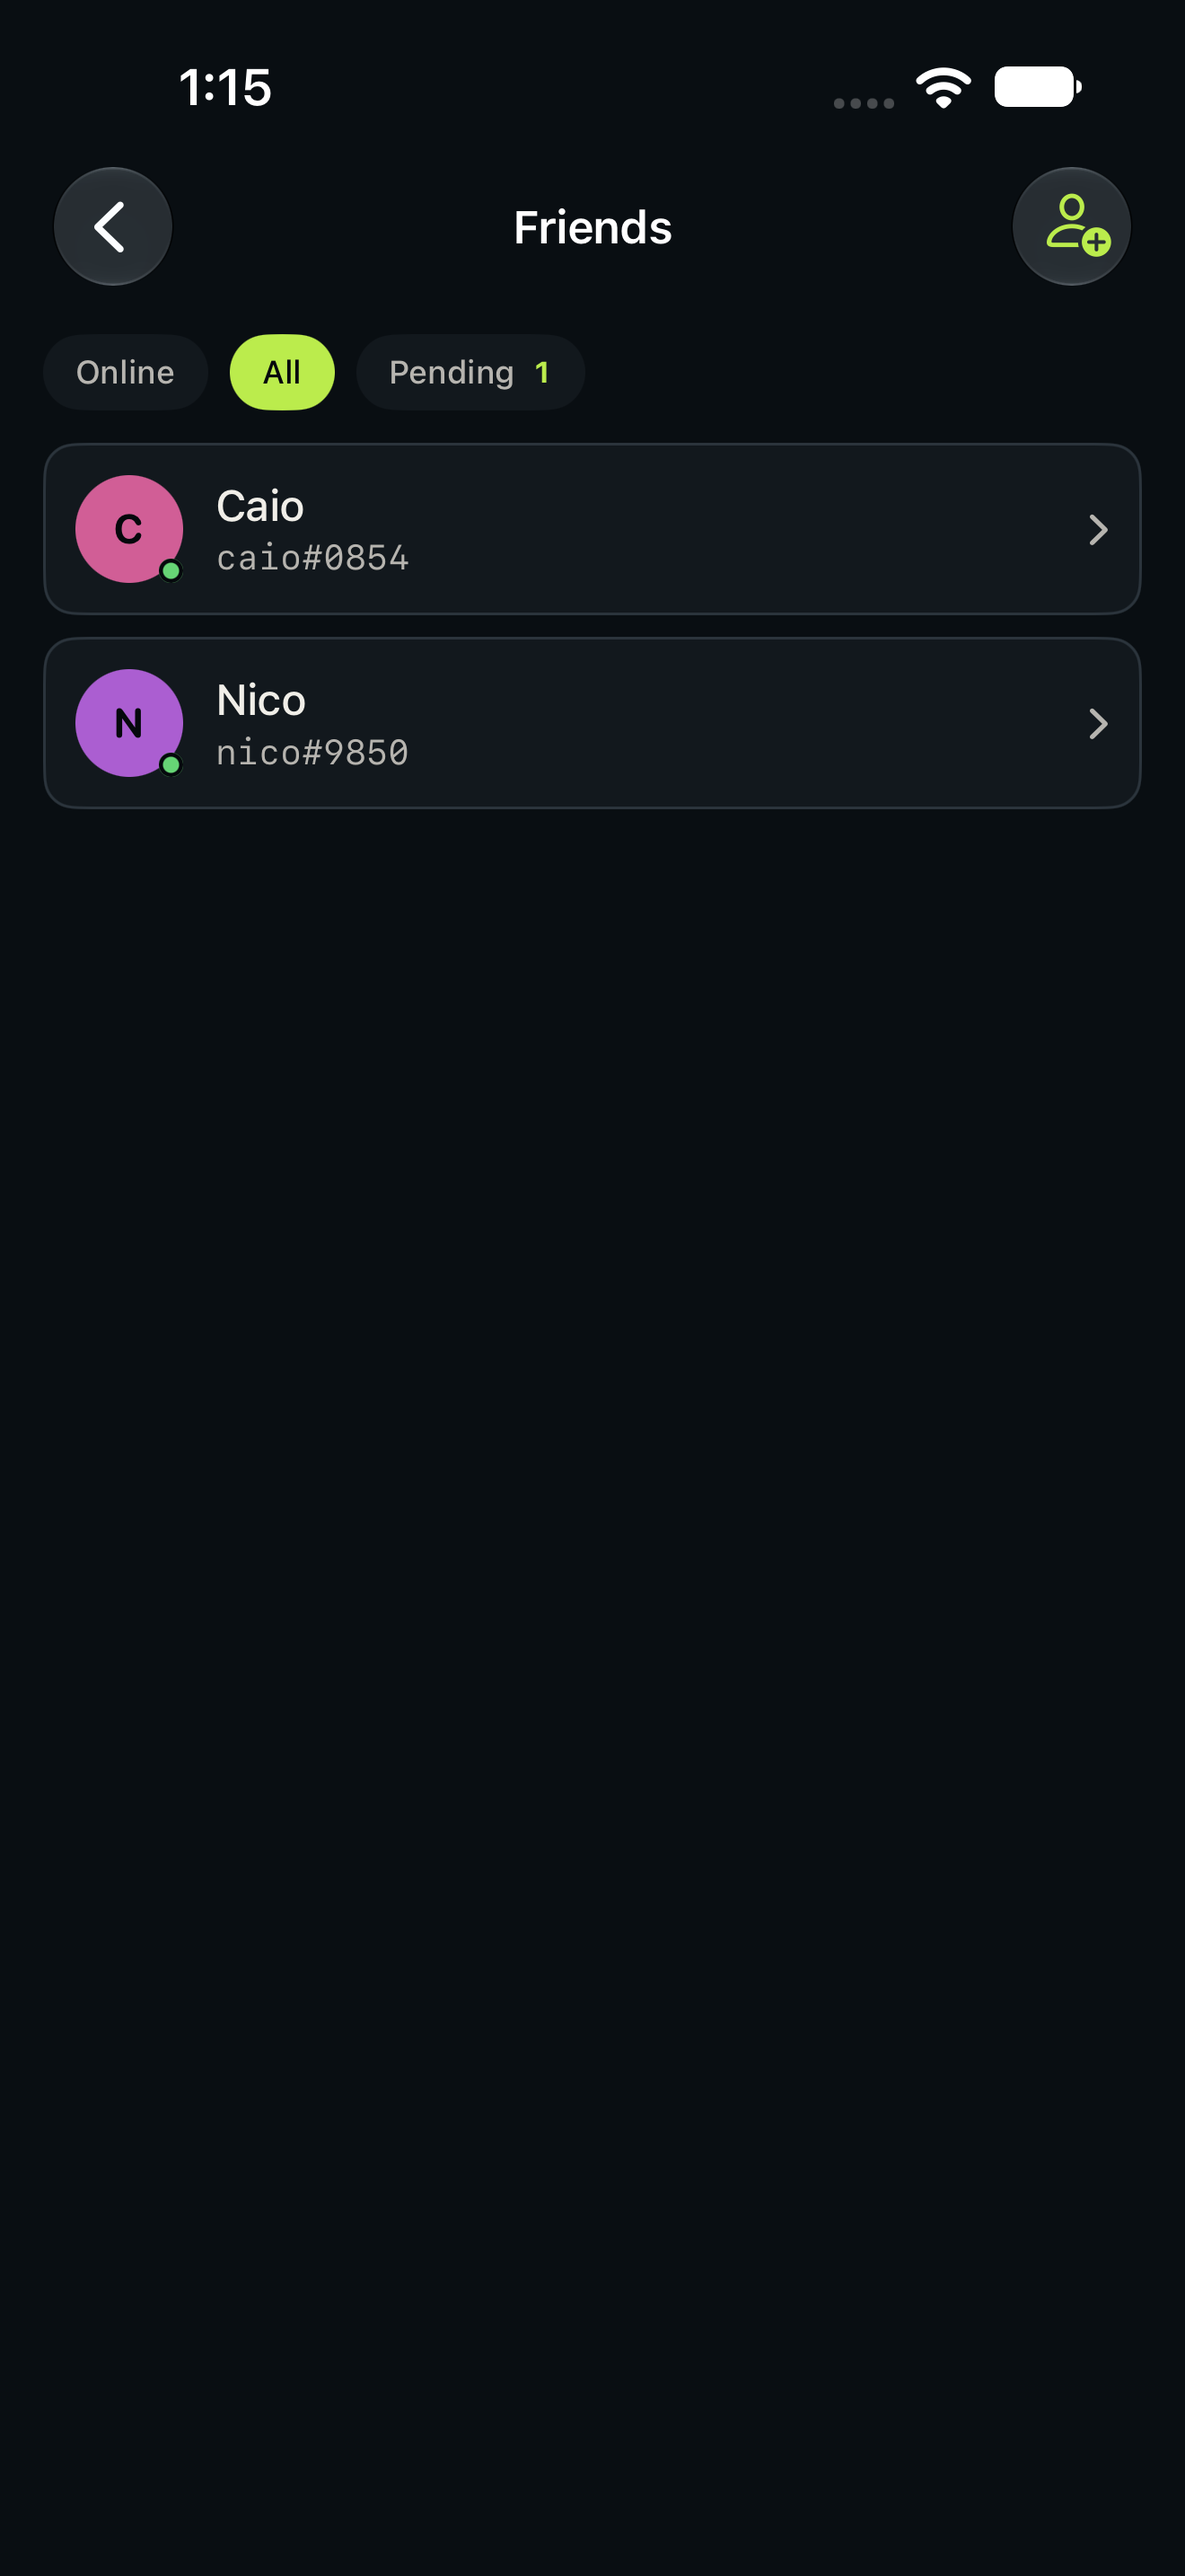
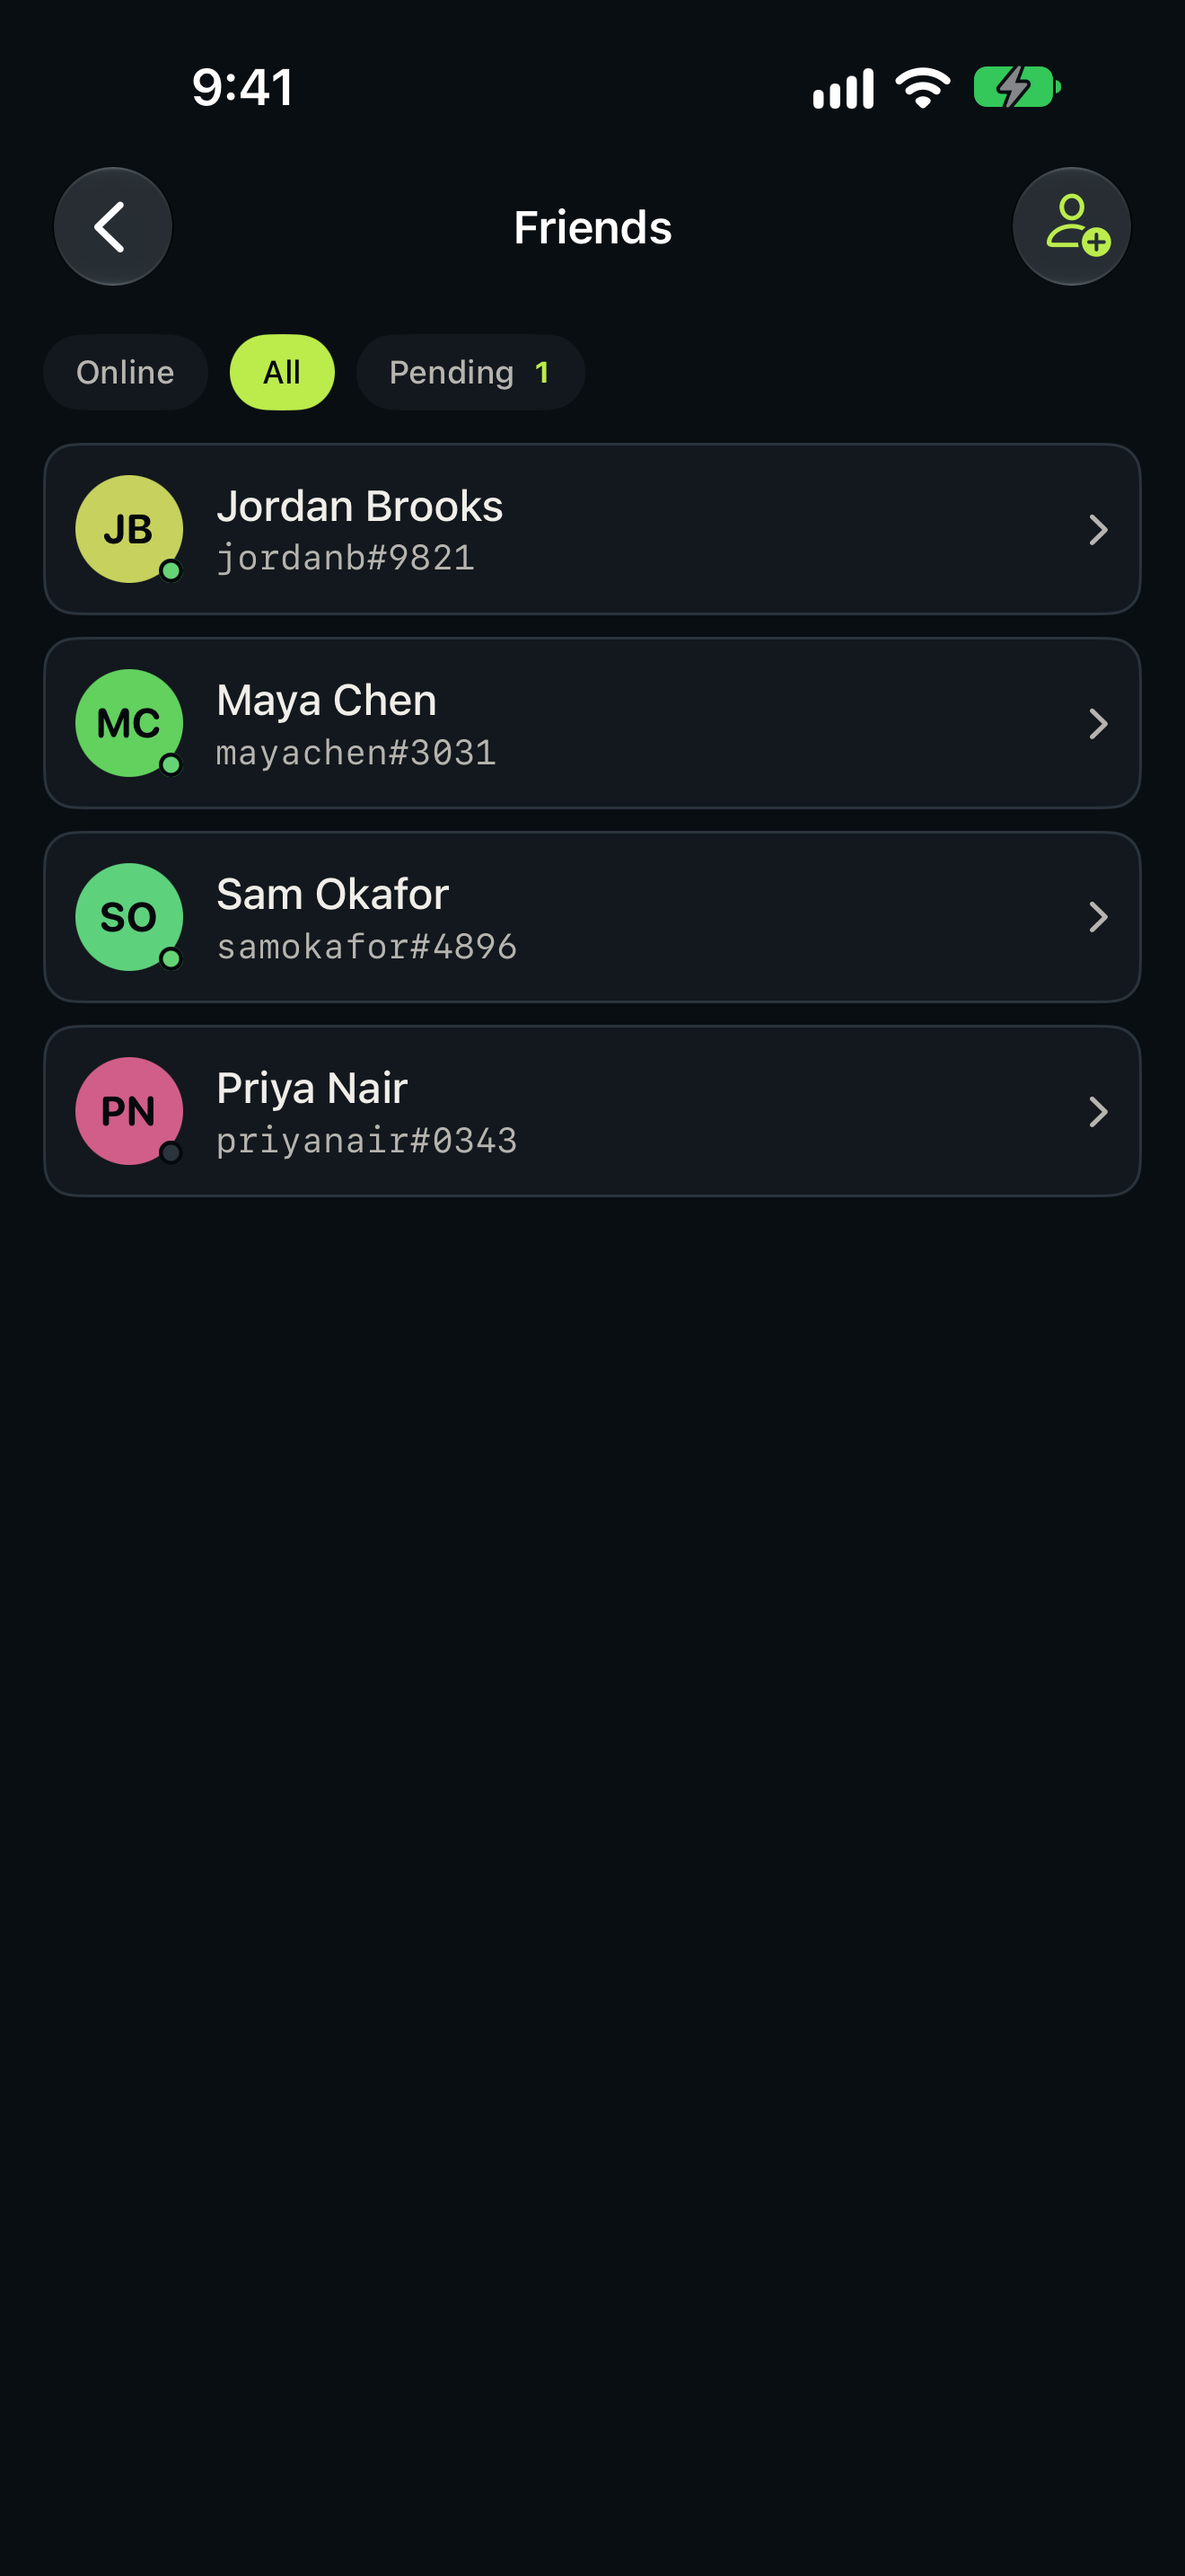
iOS App Store screenshots retaken on a seeded space (en-US, pt-BR); English placeholder for the handle field
No test data in the shots: real-looking people and server names, a photo in the
transcript, connected call participants, attachments on, language-matched chat.
The handle claim field's 'seunome' placeholder had no English string, so the
English settings screen showed Portuguese; it now reads 'yourname'.

Claude-Session: https://claude.ai/code/session_01SbDEYbuwWHXXn9KfNvNWqb

diff --git a/ios/app-store/screenshots/README.md b/ios/app-store/screenshots/README.md
@@ -97,3 +97,21 @@ xcodebuild test -project pqp.xcodeproj -scheme pqp -configuration Debug \
 ```
 
 Swap `en` for `pt-BR` (and the shot dir) for the other locale.
+
+## 2026-11 retake (App Review, Guideline 1.2)
+
+The first set carried test data (QA server names, "Dev User", people stuck on
+"connecting", a Portuguese placeholder in the English settings). It was shot
+again on a scratch database seeded with real-looking people and content, one
+database per language, so the chat is in the language of the shot:
+
+- One server per locale (en-US "Friday Night Crew", pt-BR "Noite de Jogos"),
+  three people in the call, a photo in the transcript, four to five friends
+  with one request waiting, two direct message threads, a claimed handle.
+- Attachments on (local MinIO), so Settings offers "Choose a photo".
+- Voice peers are real: headless Chromium tabs running the web client with a
+  fake microphone join the room, so the stage shows everybody "connected" over
+  genuine WebRTC rather than seats held open by a socket.
+- The simulator status bar is pinned (`simctl status_bar override`, 9:41, full
+  battery) and the language is forced with `-AppleLanguages` / `-AppleLocale`.
+- The app has no Spanish localization yet, so there is no es-MX set.
